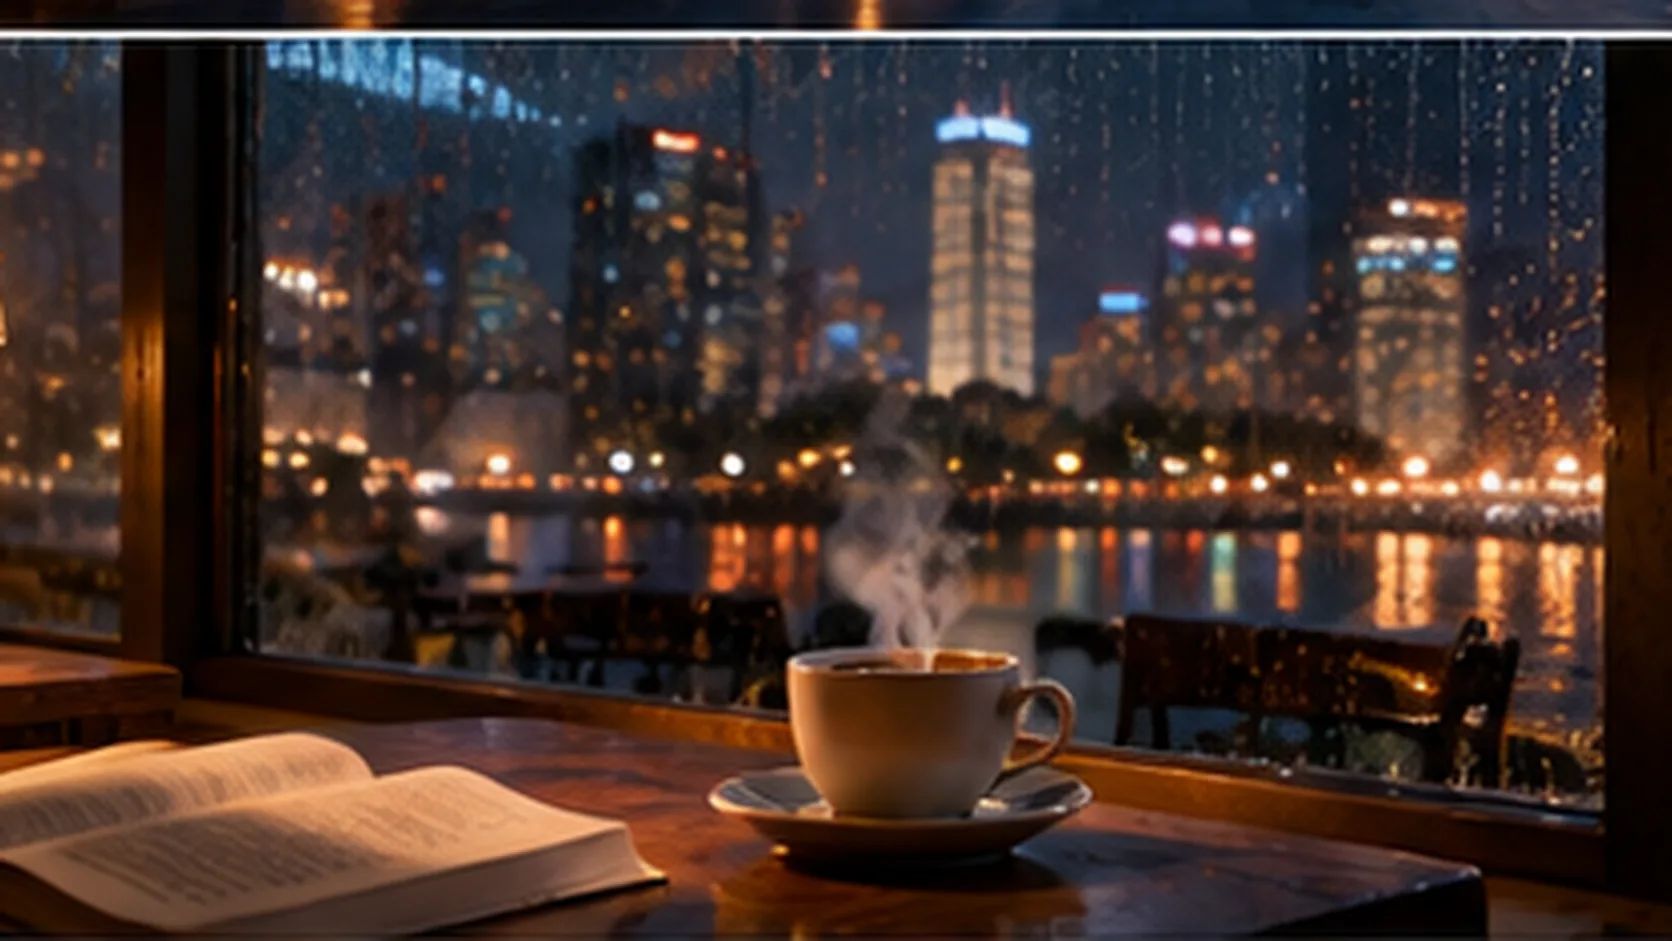
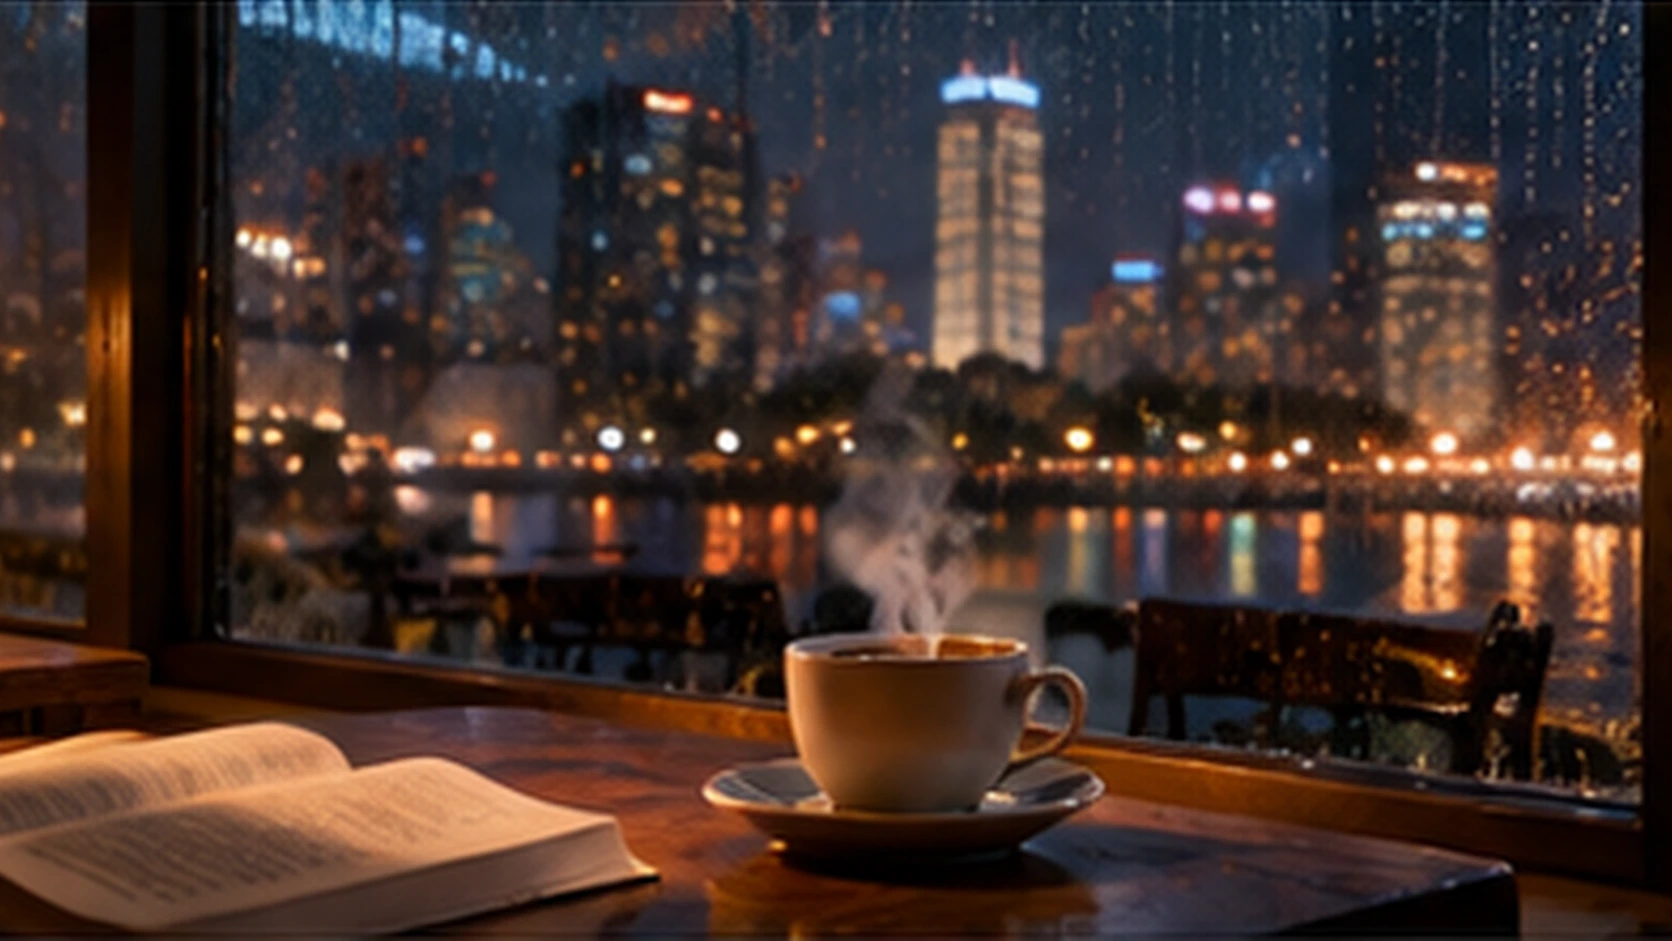
새 테마 배경 수정: 위쪽 흰 줄·다른 그림 조각 잘라내기, 화질 올리기
- 우주정거장·깊은 우주·카페·노을 이미지 위쪽에 섞여 있던 흰 줄과 다른 이미지 조각을 잘라내고 16:9 로 맞춤
- 8장 모두 원본에서 더 높은 화질(webp 92)로 다시 변환
- 잘라낸 만큼 효과 좌표(해, 수평선, 행성 가장자리, 창문, 커피잔) 조정

diff --git a/healing-room/src/main/resources/static/js/effects/space-station.js b/healing-room/src/main/resources/static/js/effects/space-station.js
@@ -2,7 +2,7 @@
 import { stars, meteors, flicker, sprite } from './parts.js';
 
 // 행성 가장자리(대기) 곡선: 왼쪽 끝 · 가운데 · 오른쪽 끝의 높이(v)를 지나는 2차 곡선
-const LIMB = [0.62, 0.5, 0.57];
+const LIMB = [0.593, 0.465, 0.54];
 const limbV = u => {
   const [a, b, c] = LIMB;
   const control = 2 * b - (a + c) / 2;
@@ -11,12 +11,12 @@ const limbV = u => {
 
 export function create(scene) {
   const { ctx } = scene;
-  const sky = stars(scene, [0, 0.02, 1, 0.45], 180);
-  const shooting = meteors(scene, [0.05, 0.03, 0.95, 0.4], 0.005);
-  const lamps = flicker(scene, [[0.33, 0.875, 0.03], [0.03, 0.9, 0.04]], '255,190,110', 0.15);
+  const sky = stars(scene, [0, 0, 1, 0.41], 180);
+  const shooting = meteors(scene, [0.05, 0.02, 0.95, 0.37], 0.005);
+  const lamps = flicker(scene, [[0.318, 0.866, 0.03], [0.01, 0.893, 0.04]], '255,190,110', 0.15);
   const dot = sprite('255,210,150');
   const city = Array.from({ length: 70 }, () => ({
-    u: 0.2 + Math.random() * 0.6, v: 0.72 + Math.random() * 0.17, p: Math.random() * 7, s: 0.02 + Math.random() * 0.05,
+    u: 0.18 + Math.random() * 0.64, v: 0.7 + Math.random() * 0.17, p: Math.random() * 7, s: 0.02 + Math.random() * 0.05,
   }));
 
   function draw(t) {
@@ -42,5 +42,5 @@ export function create(scene) {
     ctx.globalCompositeOperation = 'source-over';
   }
 
-  return { draw, click: (u, v) => { if (v < 0.48) shooting.add(u, v); } };
+  return { draw, click: (u, v) => { if (v < 0.44) shooting.add(u, v); } };
 }

diff --git a/healing-room/src/main/resources/static/js/effects/rain-cafe.js b/healing-room/src/main/resources/static/js/effects/rain-cafe.js
@@ -2,15 +2,15 @@
 import { wisps, sprite } from './parts.js';
 import { rand } from '../scene.js';
 
-const WINDOW = [0.16, 0, 0.965, 0.69];
-const CUP = [0.556, 0.665];
+const WINDOW = [0.143, 0, 0.988, 0.675];
+const CUP = [0.559, 0.649];
 const MAX_DROPS = 220;
 
 export function create(scene) {
   const { ctx } = scene;
   const steam = wisps(scene, { u: CUP[0], v: CUP[1], spread: 0.012, size: 46, rise: 0.2, count: 16, alpha: 0.13 });
   const bokeh = sprite('255,200,140');
-  const lights = Array.from({ length: 40 }, () => ({ u: rand(0.17, 0.95), v: rand(0.5, 0.62), p: rand(0, 7), s: rand(0.01, 0.03), size: rand(10, 26) }));
+  const lights = Array.from({ length: 40 }, () => ({ u: rand(0.155, 0.97), v: rand(0.475, 0.6), p: rand(0, 7), s: rand(0.01, 0.03), size: rand(10, 26) }));
   const [u0, v0, u1, v1] = WINDOW;
   const newDrop = () => ({ u: rand(u0, u1), v: rand(v0, v1), r: rand(1.2, 3.2), speed: 0, wait: rand(0, 600) });
   const drops = Array.from({ length: 140 }, newDrop);

diff --git a/healing-room/src/main/resources/static/js/effects/sunset-beach.js b/healing-room/src/main/resources/static/js/effects/sunset-beach.js
@@ -2,8 +2,8 @@
 import { glints } from './parts.js';
 import { rand } from '../scene.js';
 
-const SUN = [0.501, 0.425];
-const HORIZON = 0.52;
+const SUN = [0.501, 0.397];
+const HORIZON = 0.496;
 
 export function create(scene) {
   const { ctx } = scene;

diff --git a/healing-room/src/main/resources/static/js/effects/space-nebula.js b/healing-room/src/main/resources/static/js/effects/space-nebula.js
@@ -2,7 +2,7 @@
 import { stars, meteors, sprite } from './parts.js';
 import { rand } from '../scene.js';
 
-const CORE = [0.447, 0.617];
+const CORE = [0.443, 0.59];
 
 export function create(scene) {
   const { ctx } = scene;
